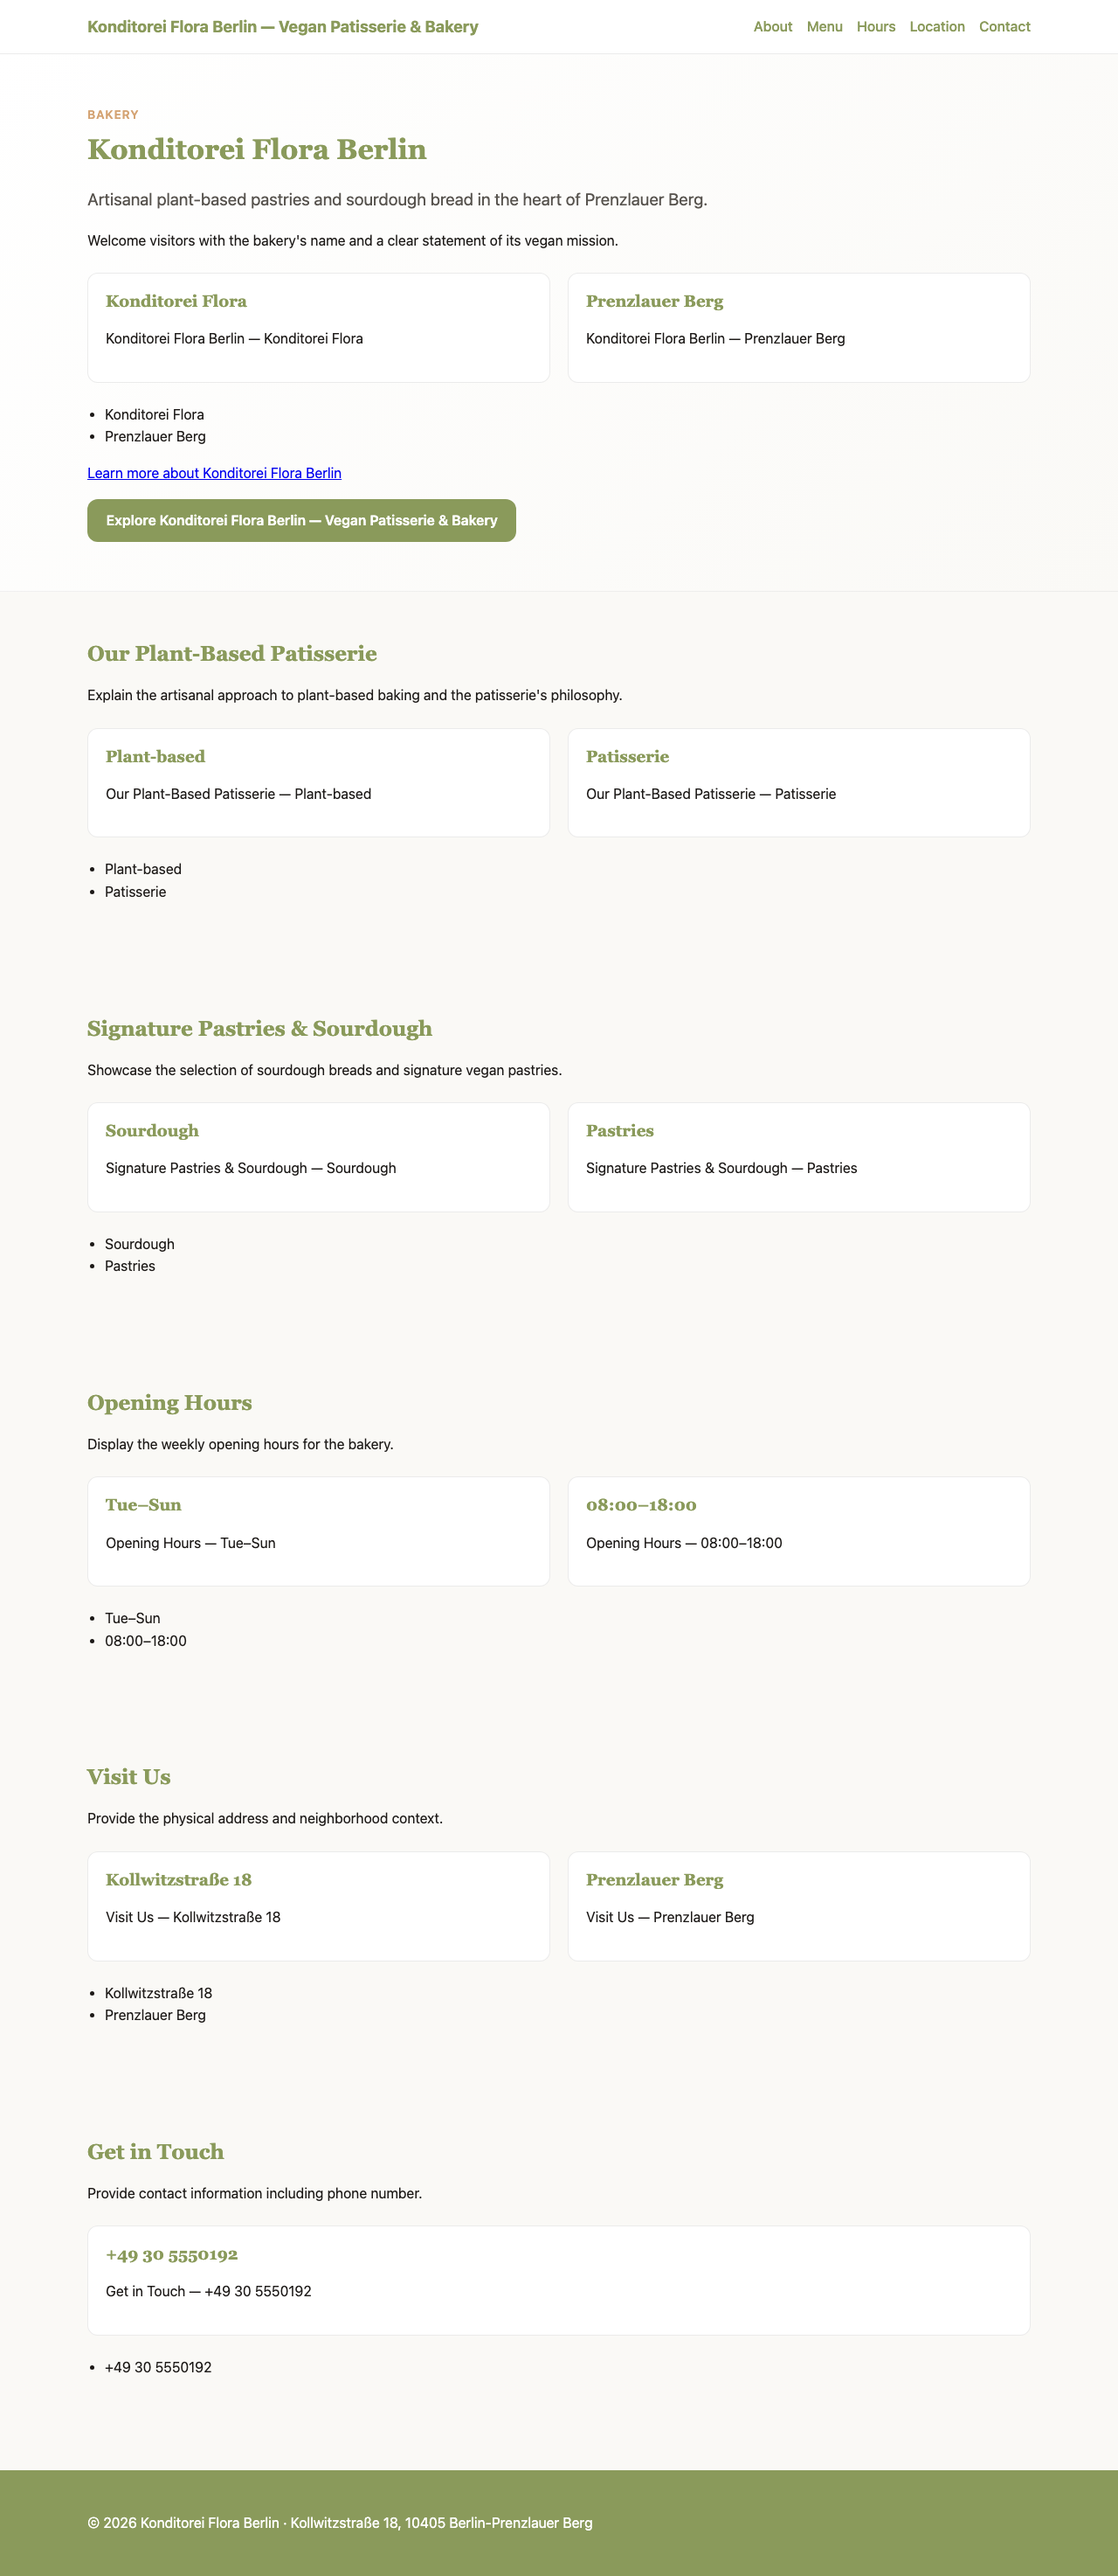
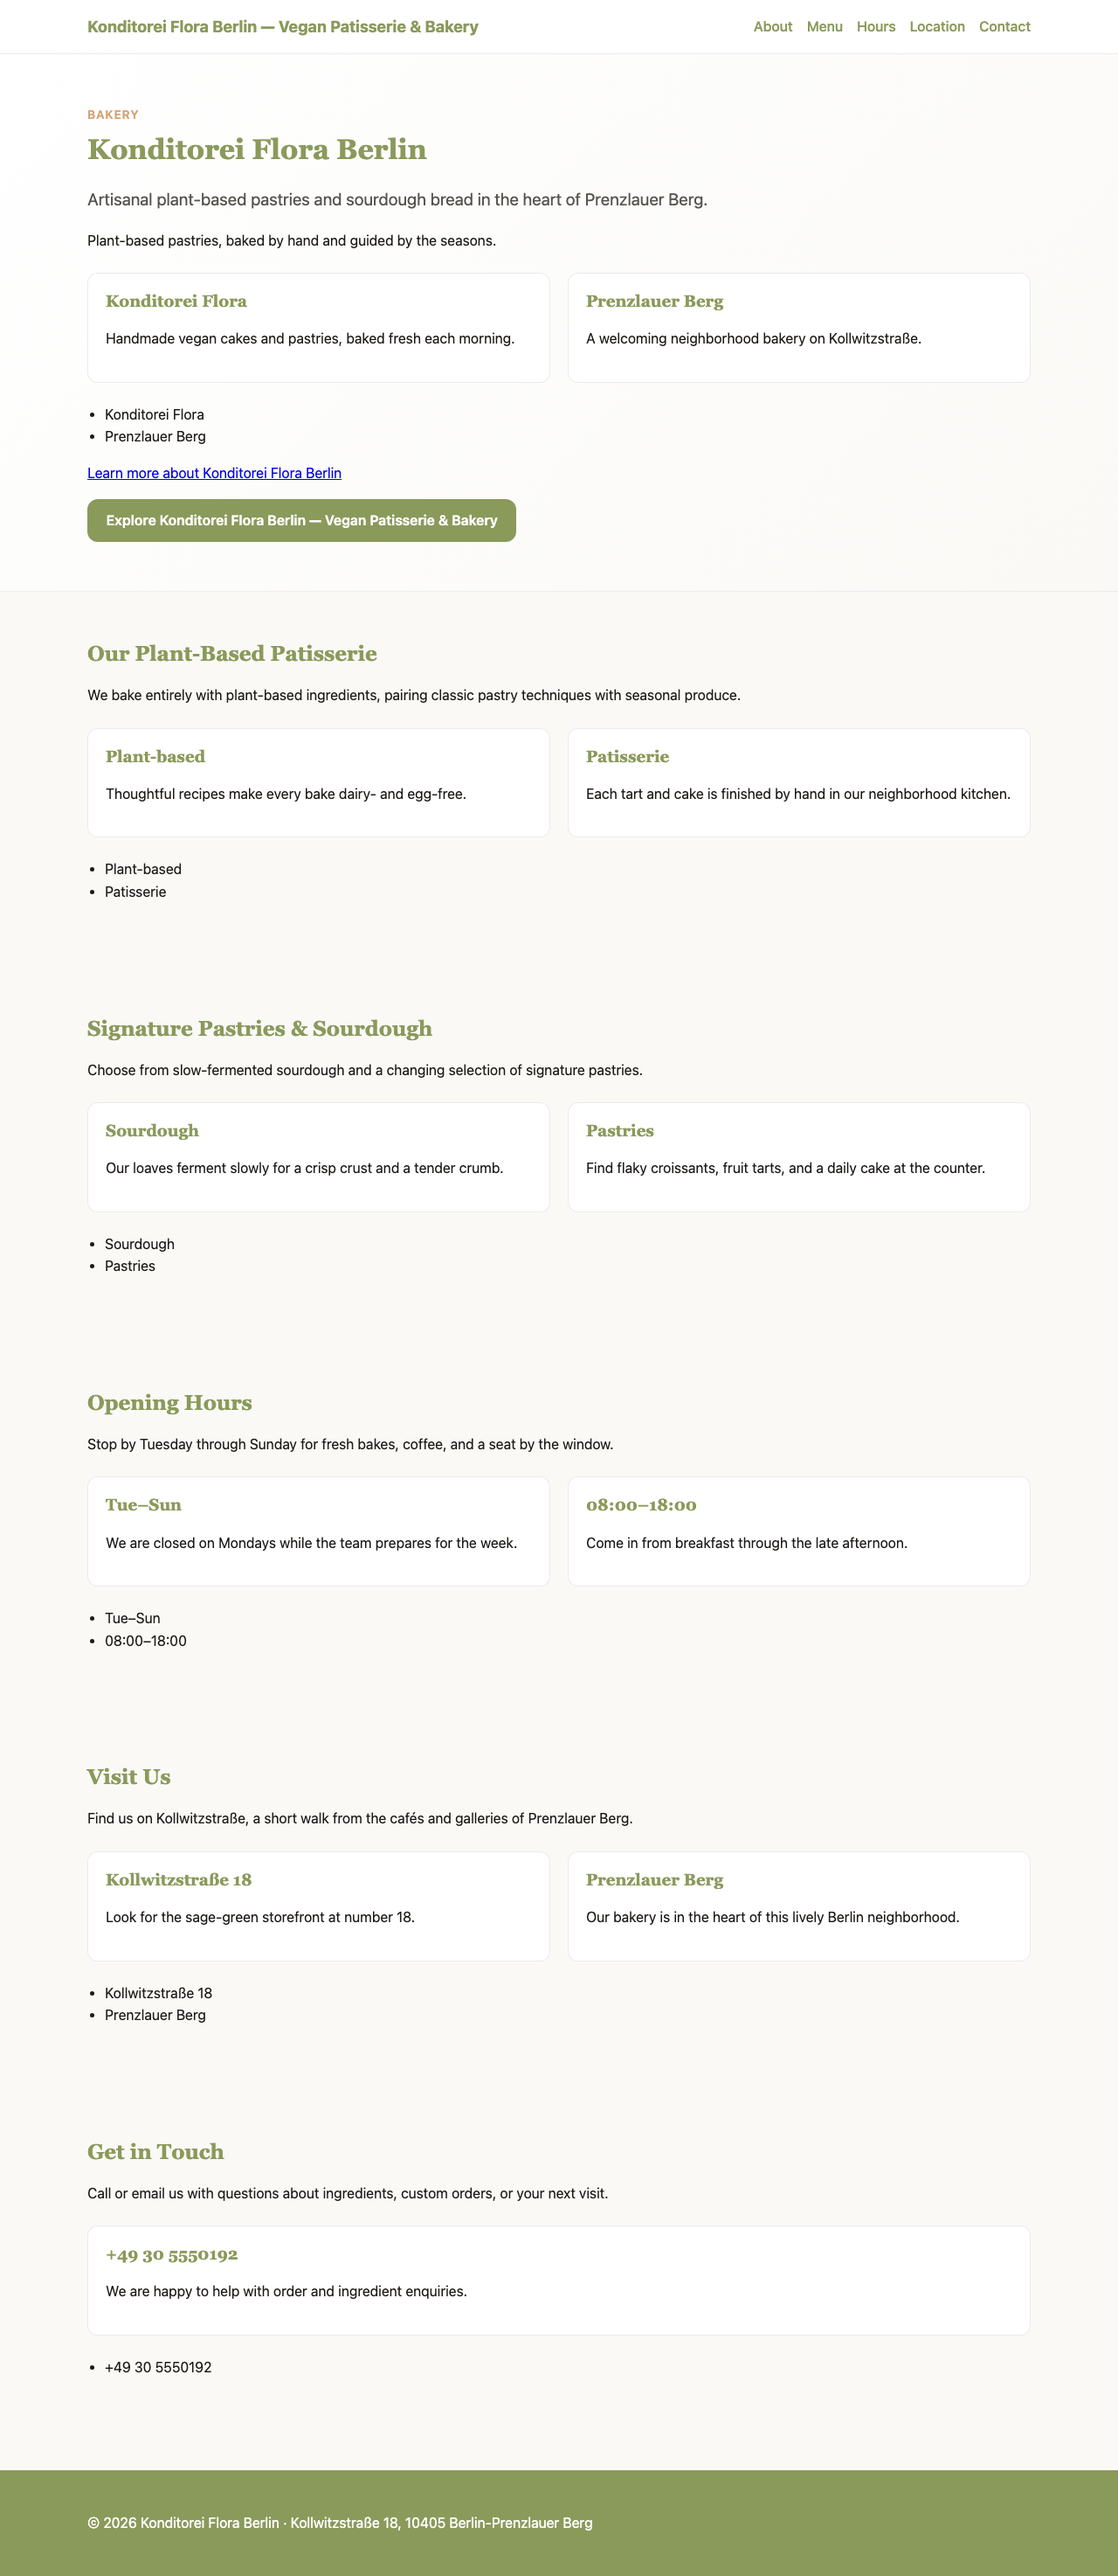
fix: close phase 1-2 verification gaps (#21)

diff --git a/sites/konditorei-flora-berlin/index.html b/sites/konditorei-flora-berlin/index.html
@@ -29,10 +29,10 @@
           <span class="eyebrow">Bakery</span>
           <h1>Konditorei Flora Berlin</h1>
           <p class="lead">Artisanal plant-based pastries and sourdough bread in the heart of Prenzlauer Berg.</p>
-          <p>Welcome visitors with the bakery&#39;s name and a clear statement of its vegan mission.</p>
+          <p>Plant-based pastries, baked by hand and guided by the seasons.</p>
         <div class="cards-grid">
-          <article class="card"><h3>Konditorei Flora</h3><p>Konditorei Flora Berlin — Konditorei Flora</p></article>
-          <article class="card"><h3>Prenzlauer Berg</h3><p>Konditorei Flora Berlin — Prenzlauer Berg</p></article>
+          <article class="card"><h3>Konditorei Flora</h3><p>Handmade vegan cakes and pastries, baked fresh each morning.</p></article>
+          <article class="card"><h3>Prenzlauer Berg</h3><p>A welcoming neighborhood bakery on Kollwitzstraße.</p></article>
         </div>
         <ul class="feature-list">
           <li>Konditorei Flora</li>
@@ -48,11 +48,11 @@
       <div class="container">
         <div class="section-header">
           <h2>Our Plant-Based Patisserie</h2>
-          <p class="section-purpose">Explain the artisanal approach to plant-based baking and the patisserie&#39;s philosophy.</p>
+          <p class="section-purpose">We bake entirely with plant-based ingredients, pairing classic pastry techniques with seasonal produce.</p>
         </div>
         <div class="cards-grid">
-          <article class="card"><h3>Plant-based</h3><p>Our Plant-Based Patisserie — Plant-based</p></article>
-          <article class="card"><h3>Patisserie</h3><p>Our Plant-Based Patisserie — Patisserie</p></article>
+          <article class="card"><h3>Plant-based</h3><p>Thoughtful recipes make every bake dairy- and egg-free.</p></article>
+          <article class="card"><h3>Patisserie</h3><p>Each tart and cake is finished by hand in our neighborhood kitchen.</p></article>
         </div>
         <ul class="feature-list">
           <li>Plant-based</li>
@@ -65,11 +65,11 @@
       <div class="container">
         <div class="section-header">
           <h2>Signature Pastries &amp; Sourdough</h2>
-          <p class="section-purpose">Showcase the selection of sourdough breads and signature vegan pastries.</p>
+          <p class="section-purpose">Choose from slow-fermented sourdough and a changing selection of signature pastries.</p>
         </div>
         <div class="cards-grid">
-          <article class="card"><h3>Sourdough</h3><p>Signature Pastries &amp; Sourdough — Sourdough</p></article>
-          <article class="card"><h3>Pastries</h3><p>Signature Pastries &amp; Sourdough — Pastries</p></article>
+          <article class="card"><h3>Sourdough</h3><p>Our loaves ferment slowly for a crisp crust and a tender crumb.</p></article>
+          <article class="card"><h3>Pastries</h3><p>Find flaky croissants, fruit tarts, and a daily cake at the counter.</p></article>
         </div>
         <ul class="feature-list">
           <li>Sourdough</li>
@@ -82,11 +82,11 @@
       <div class="container">
         <div class="section-header">
           <h2>Opening Hours</h2>
-          <p class="section-purpose">Display the weekly opening hours for the bakery.</p>
+          <p class="section-purpose">Stop by Tuesday through Sunday for fresh bakes, coffee, and a seat by the window.</p>
         </div>
         <div class="cards-grid">
-          <article class="card"><h3>Tue–Sun</h3><p>Opening Hours — Tue–Sun</p></article>
-          <article class="card"><h3>08:00–18:00</h3><p>Opening Hours — 08:00–18:00</p></article>
+          <article class="card"><h3>Tue–Sun</h3><p>We are closed on Mondays while the team prepares for the week.</p></article>
+          <article class="card"><h3>08:00–18:00</h3><p>Come in from breakfast through the late afternoon.</p></article>
         </div>
         <ul class="feature-list">
           <li>Tue–Sun</li>
@@ -99,11 +99,11 @@
       <div class="container">
         <div class="section-header">
           <h2>Visit Us</h2>
-          <p class="section-purpose">Provide the physical address and neighborhood context.</p>
+          <p class="section-purpose">Find us on Kollwitzstraße, a short walk from the cafés and galleries of Prenzlauer Berg.</p>
         </div>
         <div class="cards-grid">
-          <article class="card"><h3>Kollwitzstraße 18</h3><p>Visit Us — Kollwitzstraße 18</p></article>
-          <article class="card"><h3>Prenzlauer Berg</h3><p>Visit Us — Prenzlauer Berg</p></article>
+          <article class="card"><h3>Kollwitzstraße 18</h3><p>Look for the sage-green storefront at number 18.</p></article>
+          <article class="card"><h3>Prenzlauer Berg</h3><p>Our bakery is in the heart of this lively Berlin neighborhood.</p></article>
         </div>
         <ul class="feature-list">
           <li>Kollwitzstraße 18</li>
@@ -116,10 +116,10 @@
       <div class="container">
         <div class="section-header">
           <h2>Get in Touch</h2>
-          <p class="section-purpose">Provide contact information including phone number.</p>
+          <p class="section-purpose">Call or email us with questions about ingredients, custom orders, or your next visit.</p>
         </div>
         <div class="cards-grid">
-          <article class="card"><h3>+49 30 5550192</h3><p>Get in Touch — +49 30 5550192</p></article>
+          <article class="card"><h3>+49 30 5550192</h3><p>We are happy to help with order and ingredient enquiries.</p></article>
         </div>
         <ul class="feature-list">
           <li>+49 30 5550192</li>

diff --git a/scripts/lib/check_links.py b/scripts/lib/check_links.py
@@ -96,11 +96,14 @@ def check_adr_index(root: pathlib.Path) -> list[str]:
     adr_dir = root / "docs" / "adr"
     index = adr_dir / "README.md"
     if not index.is_file():
-        return []
+        return ["docs/adr/README.md: missing ADR index"]
     text = index.read_text(encoding="utf-8")
+    linked_targets = {
+        match.group(1).split("#", 1)[0] for match in LINK_RE.finditer(text)
+    }
     missing: list[str] = []
     for adr in sorted(adr_dir.glob("[0-9][0-9][0-9][0-9]-*.md")):
-        if f"({adr.name})" not in text:
+        if adr.name not in linked_targets:
             missing.append(f"docs/adr/README.md: missing index link for {adr.name}")
     return missing
 

diff --git a/docs/adr/0002-public-repo-governance-and-readonly-verification.md b/docs/adr/0002-public-repo-governance-and-readonly-verification.md
@@ -19,7 +19,7 @@ Accepted
 ## Decision
 
 - Restrict `scripts/serve.mjs` to serve only files under `sites/` (plus `/__health`), returning `403 Forbidden` for any other path.
-- Make `tests/site.spec.mjs` read-only on tracked `sites/<slug>/evidence/*.png` by default (writing verification screenshots to gitignored `test-results/evidence/<slug>/` while asserting committed evidence exists), and overwrite `sites/<slug>/evidence/{desktop,mobile}.png` only when `WRITE_EVIDENCE=1` is set (or when initial evidence does not exist yet).
+- Make `tests/site.spec.mjs` read-only on `sites/<slug>/evidence/*.png` by default (writing verification screenshots to gitignored `test-results/evidence/<slug>/` while asserting committed evidence exists), and create or overwrite `sites/<slug>/evidence/{desktop,mobile}.png` only when `WRITE_EVIDENCE=1` is set.
 - Run all sites (`ALL_SITES=1`) by default during `scripts/ci.sh` when `SITE_SLUG` is not set.
 - Enforce `spec.navigation` link visibility, `spec.footer_text` rendering, child-element bounding-box horizontal overflow checks (preventing `overflow-x: hidden` from masking clipped elements), and an opt-in `STRICT_COPY=1` anti-prompt-leak / anti-stub-card gate in `tests/site.spec.mjs`.
 - Commit MIT `LICENSE`, `SECURITY.md`, and `.github/CODEOWNERS`, and enforce their presence and ADR index synchronization (`docs/adr/README.md`) in `scripts/lint.sh`.

diff --git a/.claude/agents/site-verifier.md b/.claude/agents/site-verifier.md
@@ -7,5 +7,5 @@ tools: Read, Grep, Glob, Bash
 You are the read-only release verifier for `ai-factory-websites`. Never edit files or commit/push.
 
 1. Run `git status -sb` and `git diff --stat main...HEAD` to verify branch hygiene and confirm only intended `sites/<slug>/` files changed.
-2. Run `ALL_SITES=1 task ci` (and `STRICT_COPY=1 SITE_SLUG=<slug> task test` for newly generated sites) and verify all linters, public OSS governance checks (`LICENSE`, `SECURITY.md`, `.github/CODEOWNERS`), Conftest policies, hook tests, Playwright checks, and `gitleaks` pass while leaving `git status -sb` clean.
+2. Run `ALL_SITES=1 task ci` and `STRICT_COPY=1 SITE_SLUG=<slug> task test` for each changed site. Verify all linters, public OSS governance checks (`LICENSE`, `SECURITY.md`, `.github/CODEOWNERS`), Conftest policies, hook tests, Playwright checks, and `gitleaks` pass while leaving `git status -sb` clean.
 3. Return a concise PR Readiness Scorecard (`Gate | Status | Evidence`) and a one-line verdict (`READY TO SHIP` or blocking items).

diff --git a/README.md b/README.md
@@ -26,7 +26,7 @@ Static single-page websites generated, verified, and maintained autonomously by 
 
 | Slug | Category | Status | Source |
 | --- | --- | --- | --- |
-| [`_template`](sites/_template/index.html) | Reference template | Active | Baseline fixture for the 8-gate Playwright harness |
+| [`_template`](sites/_template/index.html) | Reference template | Active | Baseline for Playwright navigation, footer, layout, and strict-copy gates |
 | [`kaffeekultur-berlin`](sites/kaffeekultur-berlin/index.html) | Coffee Shop | Active | Built via [Issue #5](https://github.com/barbarosydev/ai-factory-websites/issues/5) -> PR #6; updated via [Issue #9](https://github.com/barbarosydev/ai-factory-websites/issues/9) |
 | [`konditorei-flora-berlin`](sites/konditorei-flora-berlin/index.html) | Bakery / Patisserie | Active | Resumed from `factory:waiting` via [Issue #7](https://github.com/barbarosydev/ai-factory-websites/issues/7) -> auto-merged PR #8 |
 

diff --git a/.claude/rules/playwright.md b/.claude/rules/playwright.md
@@ -9,5 +9,5 @@ paths:
 - `tests/site.spec.mjs` is parameterized by `SITE_SLUG` and reads `sites/<slug>/spec.json` directly.
 - Never hardcode business names or site-specific copy inside `tests/site.spec.mjs`.
 - Always block external network requests (`127.0.0.1` / `localhost` only) so offline/security sanity is enforced deterministically.
-- Keep `task test` read-only on tracked `sites/<slug>/evidence/*.png` files by default; only overwrite tracked evidence when `WRITE_EVIDENCE=1` is set (or when initial evidence files do not exist yet).
+- Keep `task test` read-only on `sites/<slug>/evidence/*.png` by default; create or overwrite evidence only when `WRITE_EVIDENCE=1` is set.
 - Verify `spec.navigation`, `spec.footer_text`, and child-element horizontal bounding-box overflow; run `STRICT_COPY=1` to reject leaked `section.purpose` prompt text or stub cards.

diff --git a/docs/runbook.md b/docs/runbook.md
@@ -12,7 +12,7 @@
 
 ## Verifying a Site Locally
 
-Run the 8-gate Playwright verification suite (`tests/site.spec.mjs`) against any site under `sites/<slug>/` (read-only by default; pass `WRITE_EVIDENCE=1` when intentionally refreshing `sites/<slug>/evidence/*.png`, and `STRICT_COPY=1` to enforce anti-prompt-leak and anti-stub-card checks as `ai-factory` does):
+Run the Playwright verification suite (`tests/site.spec.mjs`) against any site under `sites/<slug>/`. It checks navigation and footer content against `spec.json`, desktop/mobile child-element overflow, and (with `STRICT_COPY=1`) prompt leaks and stub cards. Tests are read-only by default; pass `WRITE_EVIDENCE=1` only when intentionally creating or refreshing tracked screenshots:
 
 ```bash
 SITE_SLUG=_template task test

diff --git a/AGENTS.md b/AGENTS.md
@@ -30,6 +30,7 @@ Use `task` for everything; logic lives in `scripts/`.
 4. No secrets in files, sites, commits, or PRs (`gitleaks` enforces this in pre-commit and CI).
 5. Pin every tool (`mise.toml`), npm package (`package.json` + `package-lock.json`), and GitHub Action (full commit SHA).
 6. Scripts follow `.claude/rules/scripts.md`: bash with `set -euo pipefail`, shellcheck clean, deterministic PASS/WARN/FAIL reporting.
+7. Playwright verifies navigation and footer content against `spec.json`, checks child-element overflow at desktop and mobile sizes, and supports `STRICT_COPY=1` to catch prompt leaks and stub cards.
 
 ## Review role
 

diff --git a/.claude/rules/sites.md b/.claude/rules/sites.md
@@ -9,4 +9,5 @@ paths:
 - Never place a `package.json`, `node_modules/`, or bundler config inside `sites/<slug>/`.
 - Never load external URLs (fonts, CDNs, images, analytics scripts). Use system font stacks, inline SVG, and local CSS.
 - Write authentic domain copy in `index.html`; never copy `spec.json` `section.purpose` instructions verbatim into visible `<p>` tags or duplicate `required_keywords` as stub cards.
+- Keep navigation links and footer copy aligned with `spec.json`; the Playwright harness verifies both against the rendered page.
 - Every site keeps an up-to-date `spec.json` and `evidence/desktop.png` + `evidence/mobile.png`.
